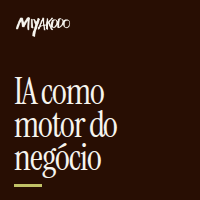
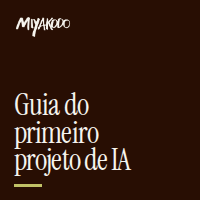
Alinha o nome do webinar ao guia que ele entrega.
Webinar e produto passam a se chamar Guia do primeiro projeto de IA, na capa e no quadrado da Eduzz.

Changed region(s): [[0.06, 0.36, 0.66, 0.9]]

diff --git a/webinar/capa/index.html b/webinar/capa/index.html
@@ -2,7 +2,7 @@
 <html lang="pt-BR">
 <head>
 <meta charset="utf-8">
-<title>Capa: IA como motor do negócio</title>
+<title>Capa: Guia do primeiro projeto de IA</title>
 <style>
 @font-face {
   font-family: "Instrument Serif";
@@ -70,7 +70,7 @@ h1 {
   margin-top: 22px;
   font-family: "Instrument Serif", serif;
   font-weight: 400;
-  font-size: 132px;
+  font-size: 108px;
   line-height: 0.9;
   letter-spacing: -0.02em;
   color: #f6f4ee;
@@ -124,7 +124,7 @@ h1 {
     <img class="logo" src="../../design/logo/png/horizontal/MIYAKODO_HORIZONTAL3.png" alt="Miyakodo">
     <div class="middle">
       <p class="kicker">Webinar ao vivo</p>
-      <h1>IA como motor<br>do negócio</h1>
+      <h1>Guia do<br>primeiro projeto<br>de IA</h1>
       <p class="sub">Onde a inteligência artificial mexe no resultado da empresa.</p>
     </div>
     <div class="foot">

diff --git a/webinar/capa/eduzz.html b/webinar/capa/eduzz.html
@@ -2,7 +2,7 @@
 <html lang="pt-BR">
 <head>
 <meta charset="utf-8">
-<title>Eduzz: IA como motor do negócio</title>
+<title>Eduzz: Guia do primeiro projeto de IA</title>
 <style>
 @font-face {
   font-family: "Instrument Serif";
@@ -43,7 +43,7 @@ h1 {
   margin-top: auto;
   font-family: "Instrument Serif", serif;
   font-weight: 400;
-  font-size: 36px;
+  font-size: 30px;
   line-height: 0.92;
   letter-spacing: -0.03em;
   color: #f6f4ee;
@@ -60,7 +60,7 @@ h1 {
 <body>
 <section class="slide">
   <img class="logo" src="../../design/logo/png/horizontal/MIYAKODO_HORIZONTAL3.png" alt="Miyakodo">
-  <h1>IA como<br>motor do<br>negócio</h1>
+  <h1>Guia do<br>primeiro<br>projeto de IA</h1>
   <div class="rule"></div>
 </section>
 </body>

diff --git a/webinar/capa/texto.md b/webinar/capa/texto.md
@@ -4,7 +4,9 @@ Slide de abertura, 1920×1080. A arte está em `index.html` e o render em `capa.
 
 ## Nome
 
-IA como motor do negócio
+Guia do primeiro projeto de IA
+
+O webinar e o produto usam o mesmo nome. O produto é o guia para o empresário implementar IA de forma assertiva na empresa.
 
 ## Subtítulo
 
@@ -12,7 +14,7 @@ Onde a inteligência artificial mexe no resultado da empresa.
 
 ## Descrição
 
-Webinar ao vivo de 2 horas para donos, sócios e líderes de empresa média. O encontro troca o impulso de adotar ferramenta por um critério: o que a IA resolve, onde ela não entra e como desenhar o primeiro projeto ligado ao resultado. Quem participa sai com um roadmap para sentar com a liderança e começar.
+Webinar ao vivo de 2 horas para donos, sócios e líderes de empresa média. O que a pessoa leva é o Guia do primeiro projeto de IA: um caminho com começo, meio e fim para implementar inteligência artificial de forma assertiva, no ponto em que ela mexe no resultado. Depois do encontro, o guia serve para sentar com a liderança e conduzir o projeto.
 
 ## Eduzz
 
